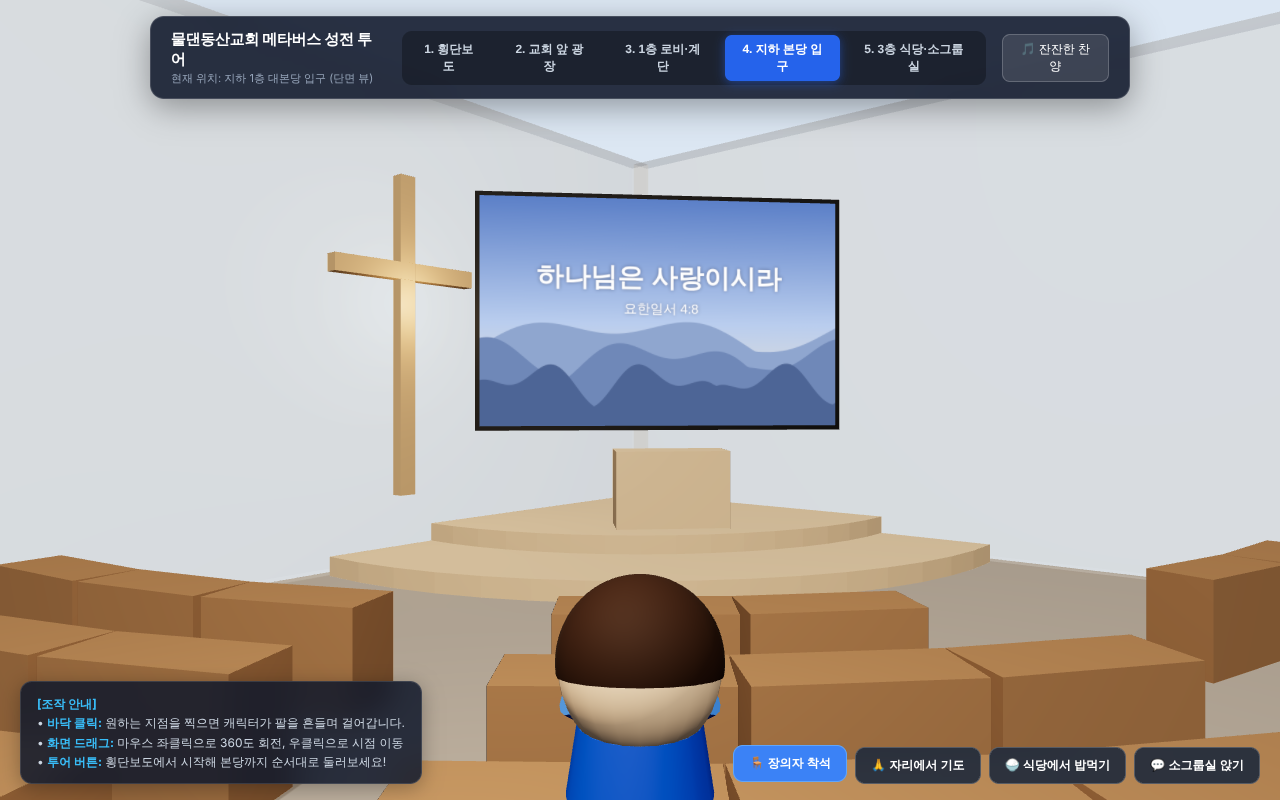
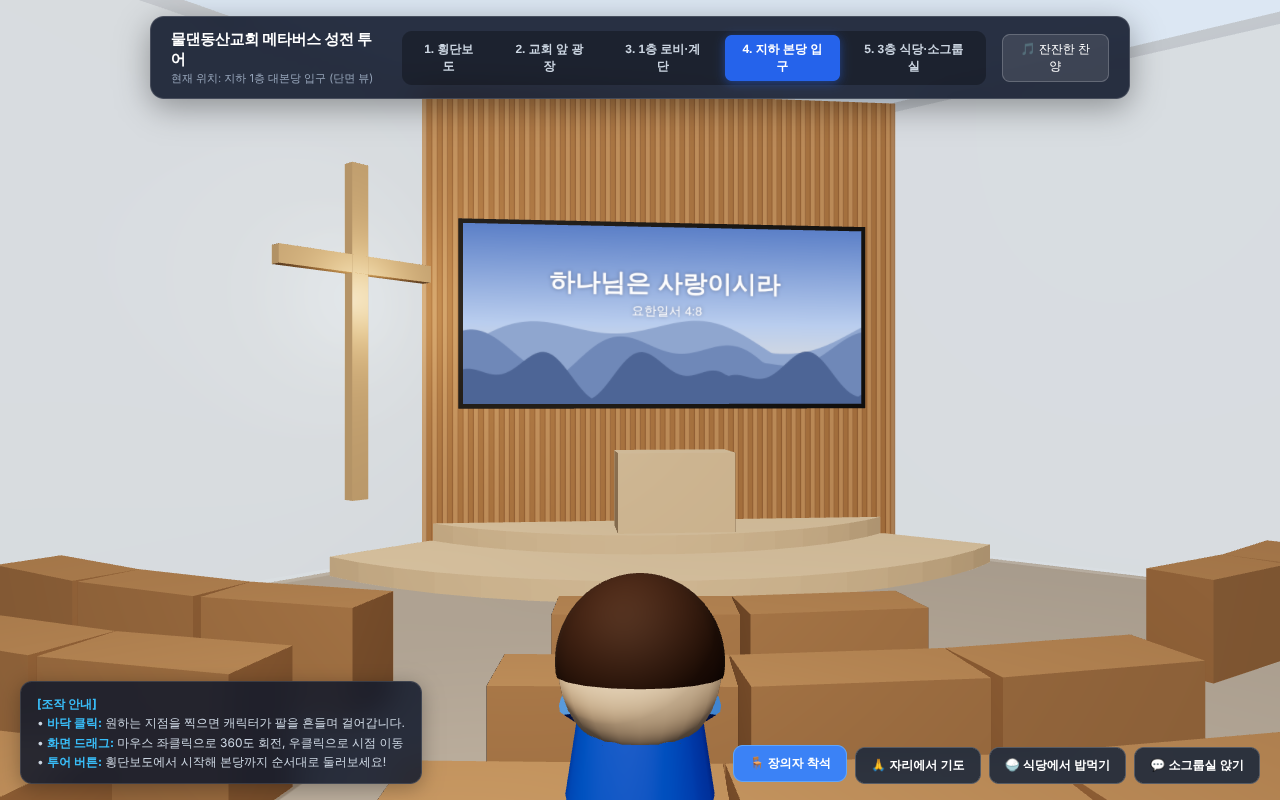
본당: 스크린 뒤 대각선 목재 벽 추가, 스크린 가로형(5.3×2.4m)으로 변경
Claude-Session: https://claude.ai/code/session_01Vz1QJdAp6yikLxGfQj8jmX

Changed region(s): [[0.1875, 0.125, 0.7188, 0.6875]]

diff --git a/index.html b/index.html
@@ -757,32 +757,48 @@
         });
       }
 
-      // 2) LED 화면: 무대 모서리를 대각선으로 가로질러 크게 세우기 (참고 사진처럼 큰 스크린)
-      //    모서리 안쪽 끝(-13.03, -17.58)에서 대각선으로 s만큼 떨어진 두 벽 위 점을 잇는 선 위에 놓으면
-      //    폭 = s×√2 까지 벽 안에 들어간다. 폭 5.0m(원래 5.6m 모델의 0.89배) · 높이 3.2m
+      // 2) 스크린 벽 + LED 화면 (참고 이미지: 스크린 뒤가 벽, 가로로 긴 화면)
+      //    무대 모서리를 대각선으로 가로막는 목재 벽을 세우고(모서리에서 각 벽을 따라 4.2m 지점끼리 연결,
+      //    폭 약 5.9m · 바닥~천장 6m), 그 벽에 가로 5.3m × 세로 2.4m(약 2.2:1) 스크린을 건다.
       const CORNER = { x: -13.03, z: -17.58 };
-      const LED_W = 5.0, LED_H = 3.2, LED_BOTTOM = -5.0;
-      const ledS = LED_W / Math.SQRT2 + 0.08;                // 벽과 8cm 여유
+      const WALL_S = 4.2, WALL_T = 0.2;
+      const LED_W = 5.3, LED_H = 2.4, LED_BOTTOM = -4.7;
+      {
+        const sc = document.createElement('canvas'); sc.width = 512; sc.height = 256;
+        const w = sc.getContext('2d');
+        w.fillStyle = '#b4875a'; w.fillRect(0, 0, 512, 256);
+        for (let i = 0; i < 512; i += 16) { w.fillStyle = i % 32 ? '#a77b50' : '#c09267'; w.fillRect(i, 0, 14, 256); w.fillStyle = '#7d5a3a'; w.fillRect(i + 14, 0, 2, 256); }
+        const wt = new THREE.CanvasTexture(sc);
+        if ('colorSpace' in wt) wt.colorSpace = THREE.SRGBColorSpace;
+        wt.wrapS = THREE.RepeatWrapping; wt.repeat.set(3, 1);
+        const featureWall = new THREE.Mesh(new THREE.BoxGeometry(WALL_S * Math.SQRT2 + 0.3, 6.0, WALL_T),
+          new THREE.MeshStandardMaterial({ map: wt, roughness: 0.75 }));
+        featureWall.position.set(CORNER.x + WALL_S / 2, FLOOR + 3.0, CORNER.z + WALL_S / 2);
+        featureWall.rotation.y = Math.PI / 4;
+        featureWall.receiveShadow = true;
+        g.add(featureWall);
+      }
+      const ledOff = WALL_T / 2 + 0.07;                     // 벽 앞면에 붙임
       const led = byName['B1_FINAL_LED_Screen'];
       if (led) {
-        led.position.set(CORNER.x + ledS / 2, LED_BOTTOM + LED_H / 2, CORNER.z + ledS / 2);
+        led.position.set(CORNER.x + WALL_S / 2 + ledOff * Math.SQRT1_2, LED_BOTTOM + LED_H / 2, CORNER.z + WALL_S / 2 + ledOff * Math.SQRT1_2);
         led.rotation.set(0, Math.PI / 4, 0);
         led.scale.set(LED_W / 5.6, LED_H / 2.3, 1);
         // 스크린 화면: 새벽 하늘 · 산 · 말씀 (그림 파일 없이 코드로 그림)
-        const c = document.createElement('canvas'); c.width = 1024; c.height = 656;
+        const c = document.createElement('canvas'); c.width = 1024; c.height = 464;
         const x = c.getContext('2d');
-        const sky = x.createLinearGradient(0, 0, 0, 656);
+        const sky = x.createLinearGradient(0, 0, 0, 464);
         sky.addColorStop(0, '#5b7fc7'); sky.addColorStop(0.55, '#b9cdee'); sky.addColorStop(1, '#f3e6cf');
-        x.fillStyle = sky; x.fillRect(0, 0, 1024, 656);
-        [['#8fa6cf', 430, 0.004], ['#6f88b8', 500, 0.006], ['#4d6596', 570, 0.009]].forEach(([col, base, f], i) => {
-          x.fillStyle = col; x.beginPath(); x.moveTo(0, 656);
+        x.fillStyle = sky; x.fillRect(0, 0, 1024, 464);
+        [['#8fa6cf', 320, 0.004], ['#6f88b8', 370, 0.006], ['#4d6596', 420, 0.009]].forEach(([col, base, f], i) => {
+          x.fillStyle = col; x.beginPath(); x.moveTo(0, 464);
           for (let px = 0; px <= 1024; px += 8) x.lineTo(px, base - 70 * Math.abs(Math.sin(px * f + i * 1.7)) - 30 * Math.sin(px * f * 3.1 + i));
-          x.lineTo(1024, 656); x.closePath(); x.fill();
+          x.lineTo(1024, 464); x.closePath(); x.fill();
         });
         x.fillStyle = '#ffffff'; x.textAlign = 'center'; x.textBaseline = 'middle';
         x.shadowColor = 'rgba(20,30,60,0.45)'; x.shadowBlur = 12;
-        x.font = 'bold 76px sans-serif'; x.fillText('하나님은 사랑이시라', 512, 230);
-        x.font = '38px sans-serif'; x.fillText('요한일서 4:8', 512, 320);
+        x.font = 'bold 64px sans-serif'; x.fillText('하나님은 사랑이시라', 512, 150);
+        x.font = '32px sans-serif'; x.fillText('요한일서 4:8', 512, 222);
         const tex = new THREE.CanvasTexture(c);
         if ('colorSpace' in tex) tex.colorSpace = THREE.SRGBColorSpace;
         // 원래 스크린 상자는 검은 테두리로 두고, 회중 쪽 앞면에 그림 판을 붙임
@@ -798,16 +814,16 @@
       const pulpit = byName['B1_FINAL_Pulpit'];
       if (pulpit) {
         pulpit.position.y -= 0.09;
-        // 커진 스크린과 겹치지 않게 대각선으로 앞(회중 쪽)으로 옮김 (모서리에서 대각선 3.5m)
-        const d = 3.5 / Math.SQRT2;
+        // 스크린 벽과 겹치지 않게 대각선으로 앞(회중 쪽)으로 옮김 (모서리에서 대각선 3.8m)
+        const d = 3.8 / Math.SQRT2;
         pulpit.position.x = CORNER.x + d; pulpit.position.z = CORNER.z + d;
       }
 
       // 4) 십자가: 참고 사진처럼 벽에 붙임. 회중이 무대를 볼 때 스크린 왼쪽 = 서쪽 벽.
-      //    스크린 끝(z ≈ -13.9)보다 남쪽, 무대 윗단 끝 근처에 1.3배 크기로 건다.
+      //    스크린 벽 끝(z ≈ -13.4)보다 남쪽에 1.3배 크기로 건다.
       const cv = byName['B1_FINAL_Cross_V'], ch = byName['B1_FINAL_Cross_H'];
       if (cv && ch) {
-        const k = 1.3, wallX = CORNER.x + 0.06 * k + 0.02, cz = -12.85;
+        const k = 1.3, wallX = CORNER.x + 0.06 * k + 0.02, cz = -12.2;
         const bottom = -5.75, vH = 3.0 * k;
         cv.scale.set(k, k, k); ch.scale.set(k, k, k);
         cv.rotation.set(0, Math.PI / 2, 0); ch.rotation.set(0, Math.PI / 2, 0);   // 앞면이 동쪽(회중)을 향함

diff --git a/docs/verification/2026-11-05/REPORT.md b/docs/verification/2026-11-05/REPORT.md
@@ -24,3 +24,9 @@
 - 십자가: 받침을 없애고 회중이 볼 때 스크린 왼쪽(서쪽 벽)에 1.3배 크기로 붙임, 뒤에 은은한 조명.
 - 강대상: 스크린과 겹치지 않게 모서리에서 대각선 3.5m 위치로 앞당김.
 - 장의자 착석 시점: 스크린과 십자가가 함께 보이게 조정 (`b1-cross-screen-pew.png`).
+
+### 수정 (같은 날)
+- 스크린 뒤에 대각선 목재 벽(폭 약 5.9m, 바닥~천장 6m)을 세우고, 스크린은 가로 5.3m × 세로 2.4m(약 2.2:1)로 변경.
+- 강대상 대각선 3.8m, 십자가는 서쪽 벽 z -12.2로 옮김(스크린 벽과 안 겹치게).
+- 본당 높이: 바닥 -6.6 ~ 천장 -0.6 = 6.0m = 캐릭터(1m) 키의 6배 → 실제 사람(1.65m) 기준 약 9.9m.
+  장의자 높이 0.72m는 캐릭터 키의 72%(사람 기준 약 1.2m)로 커서 공간이 낮고 답답해 보이는 원인 중 하나.
